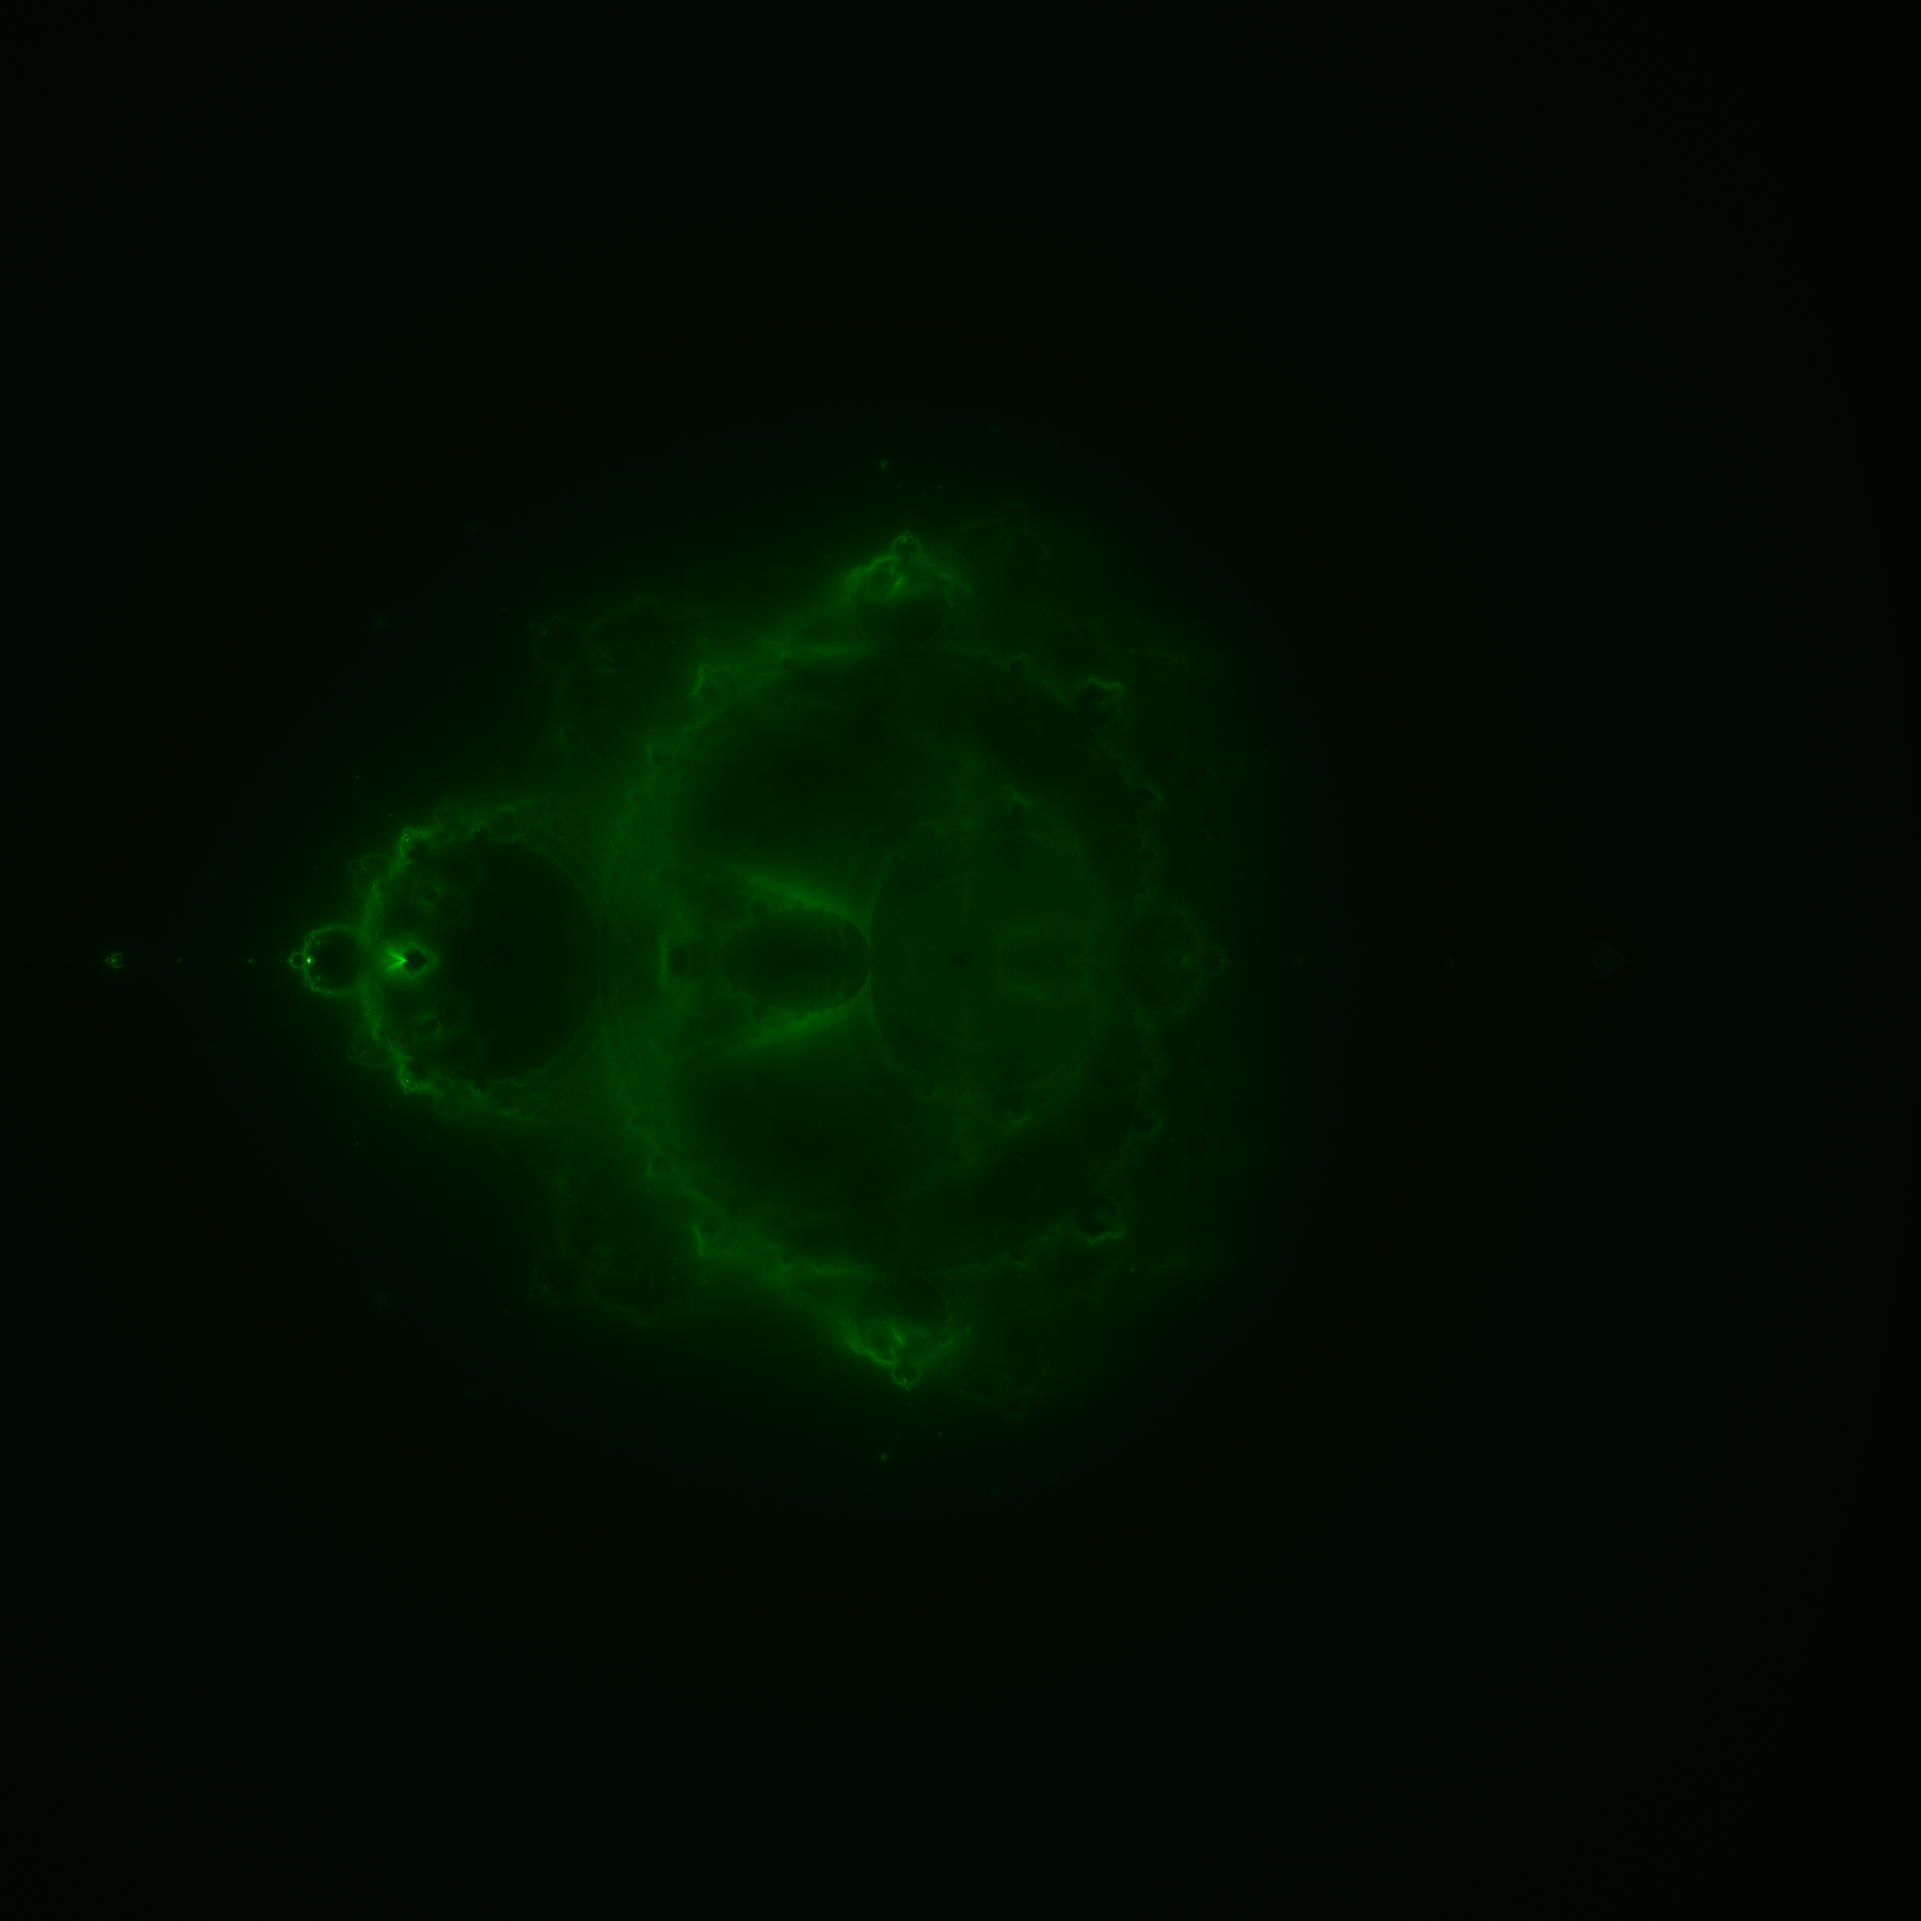
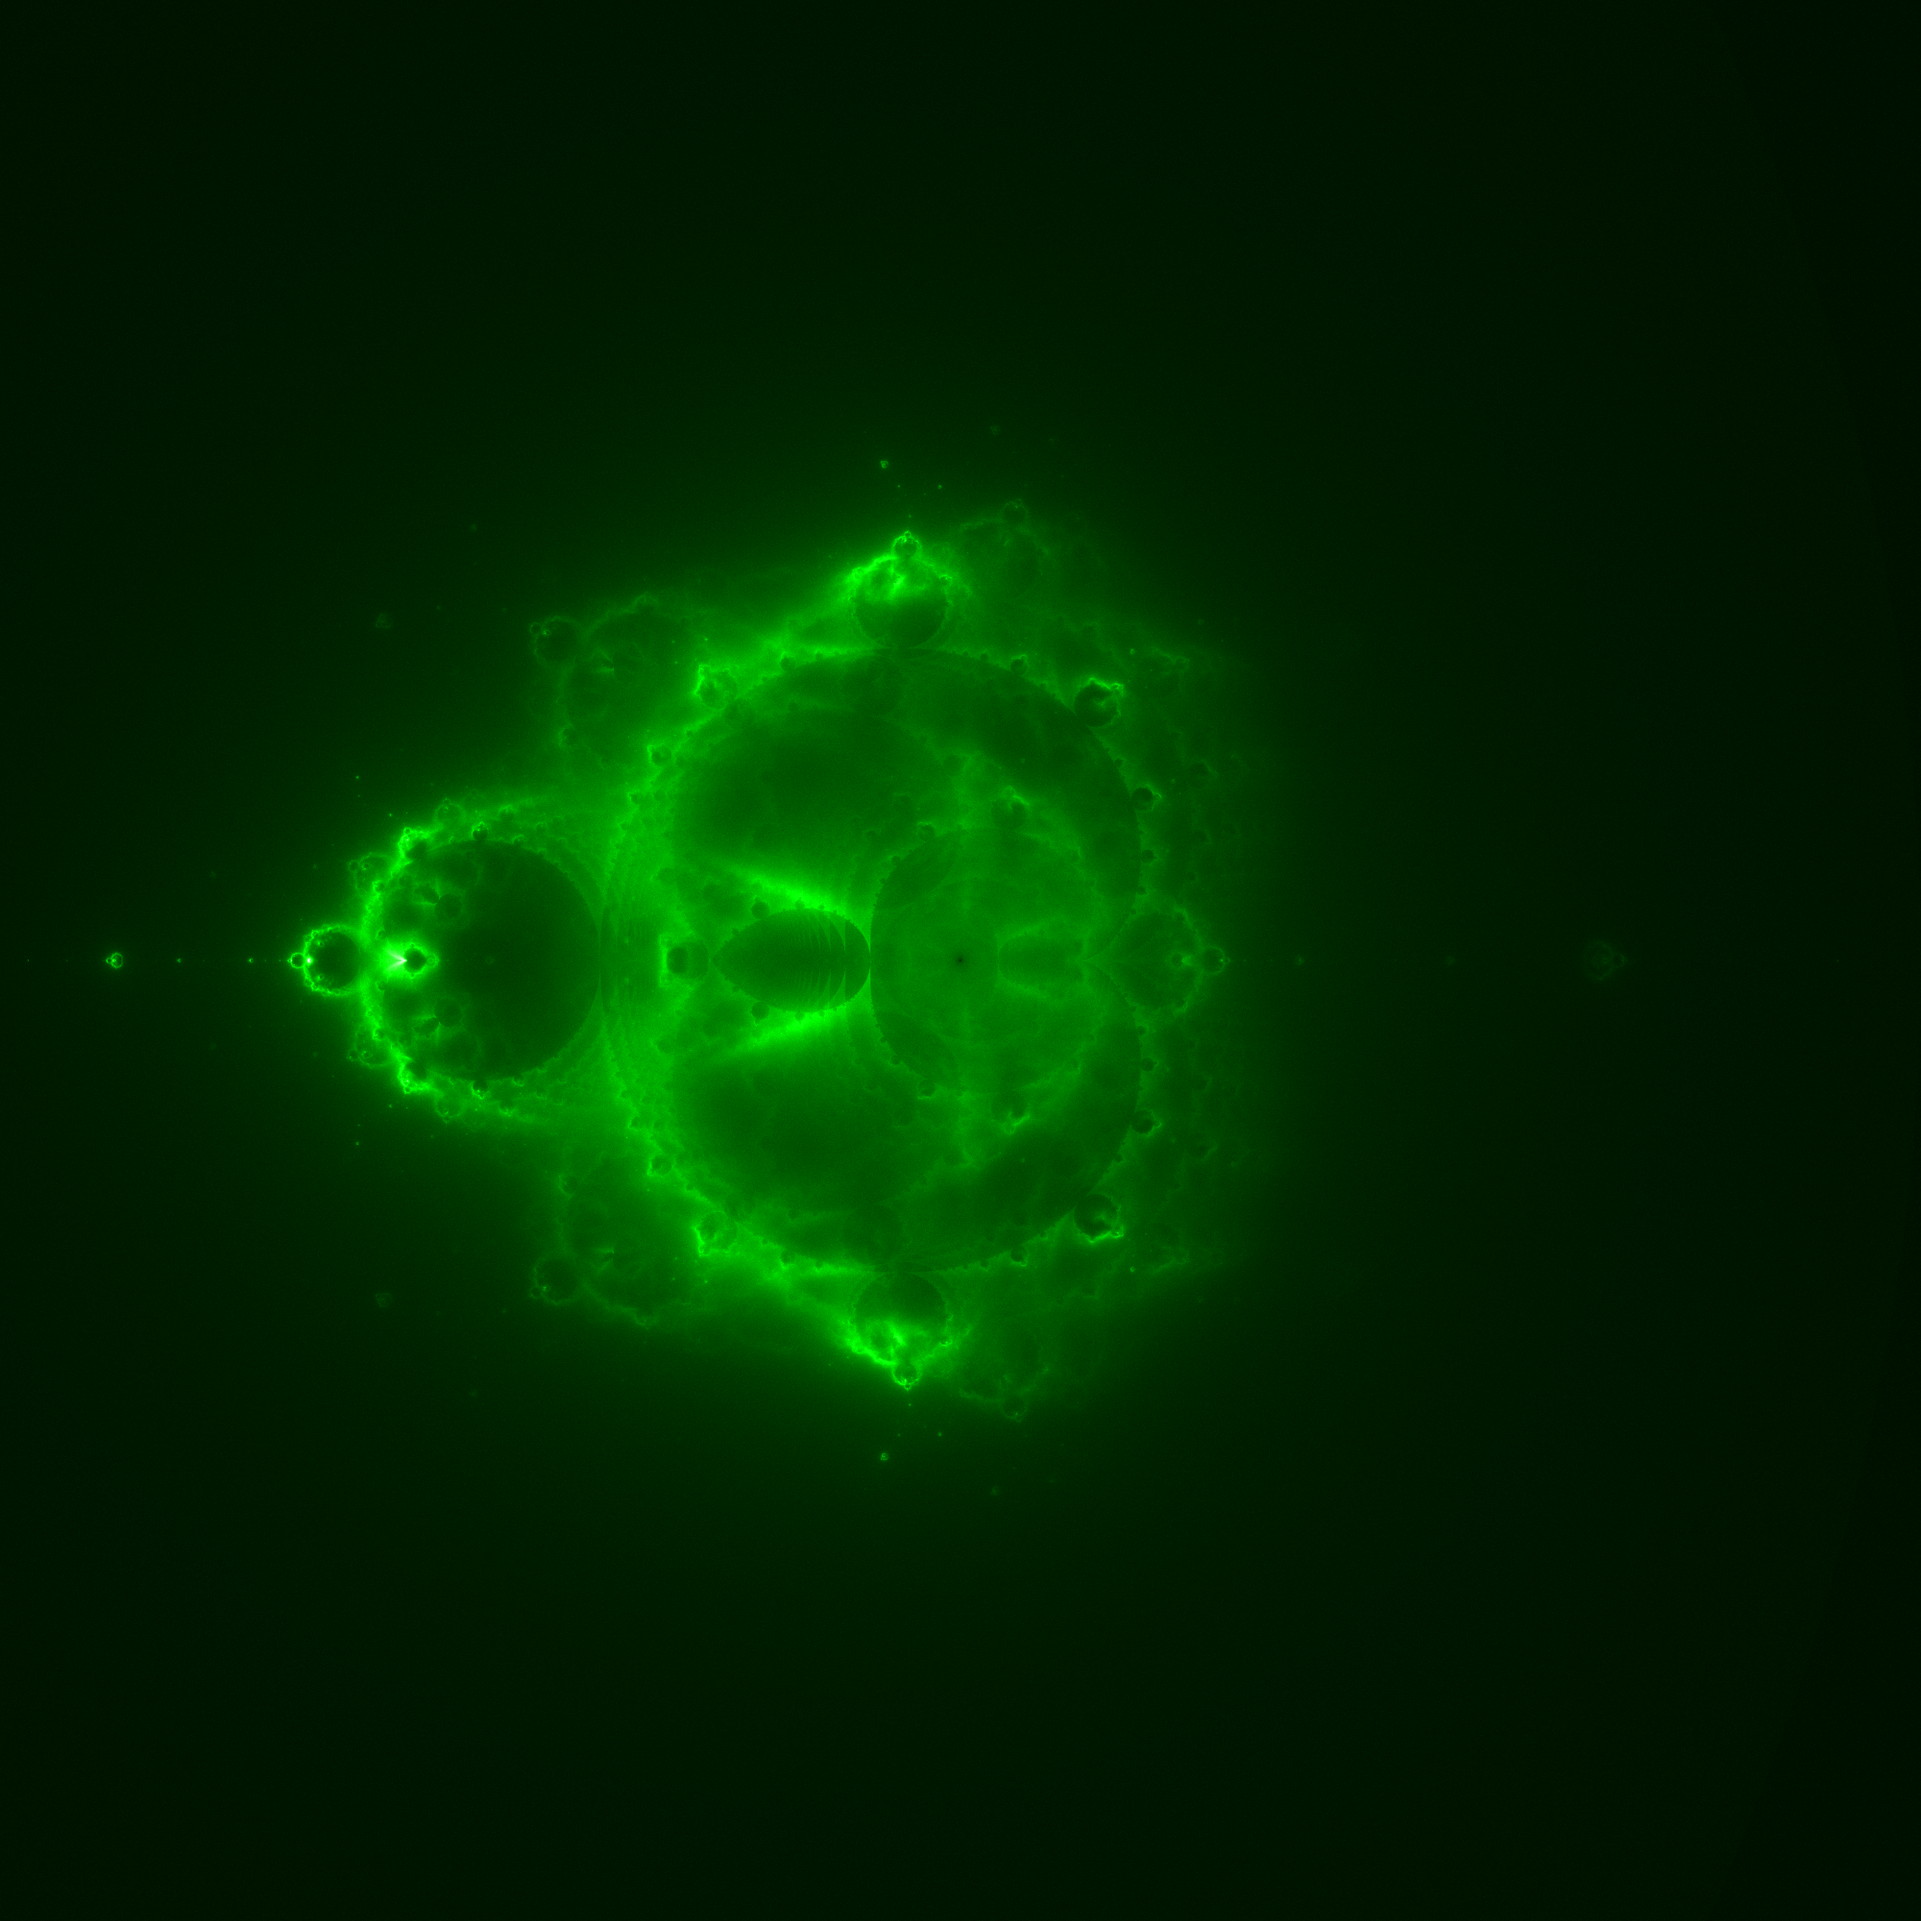
Update README and sample.

Changed region(s): [[0.031, 0.186, 0.744, 0.806]]

diff --git a/README.md b/README.md
@@ -27,13 +27,15 @@ image are posted in JSON, and a PNG image is written to the response.
             "color":"#000000",
             "position":0.0
         }, {
-            "color":"#00FF00",
+           "color":"#00FF00",
+           "position":0.25
+        }, {
+            "color":"#FFFFFF",
             "position":0.75
         }, {
             "color":"#FFFFFF",
             "position":1.0
-        }
-    ]
+        }]
 }
 ```
 
